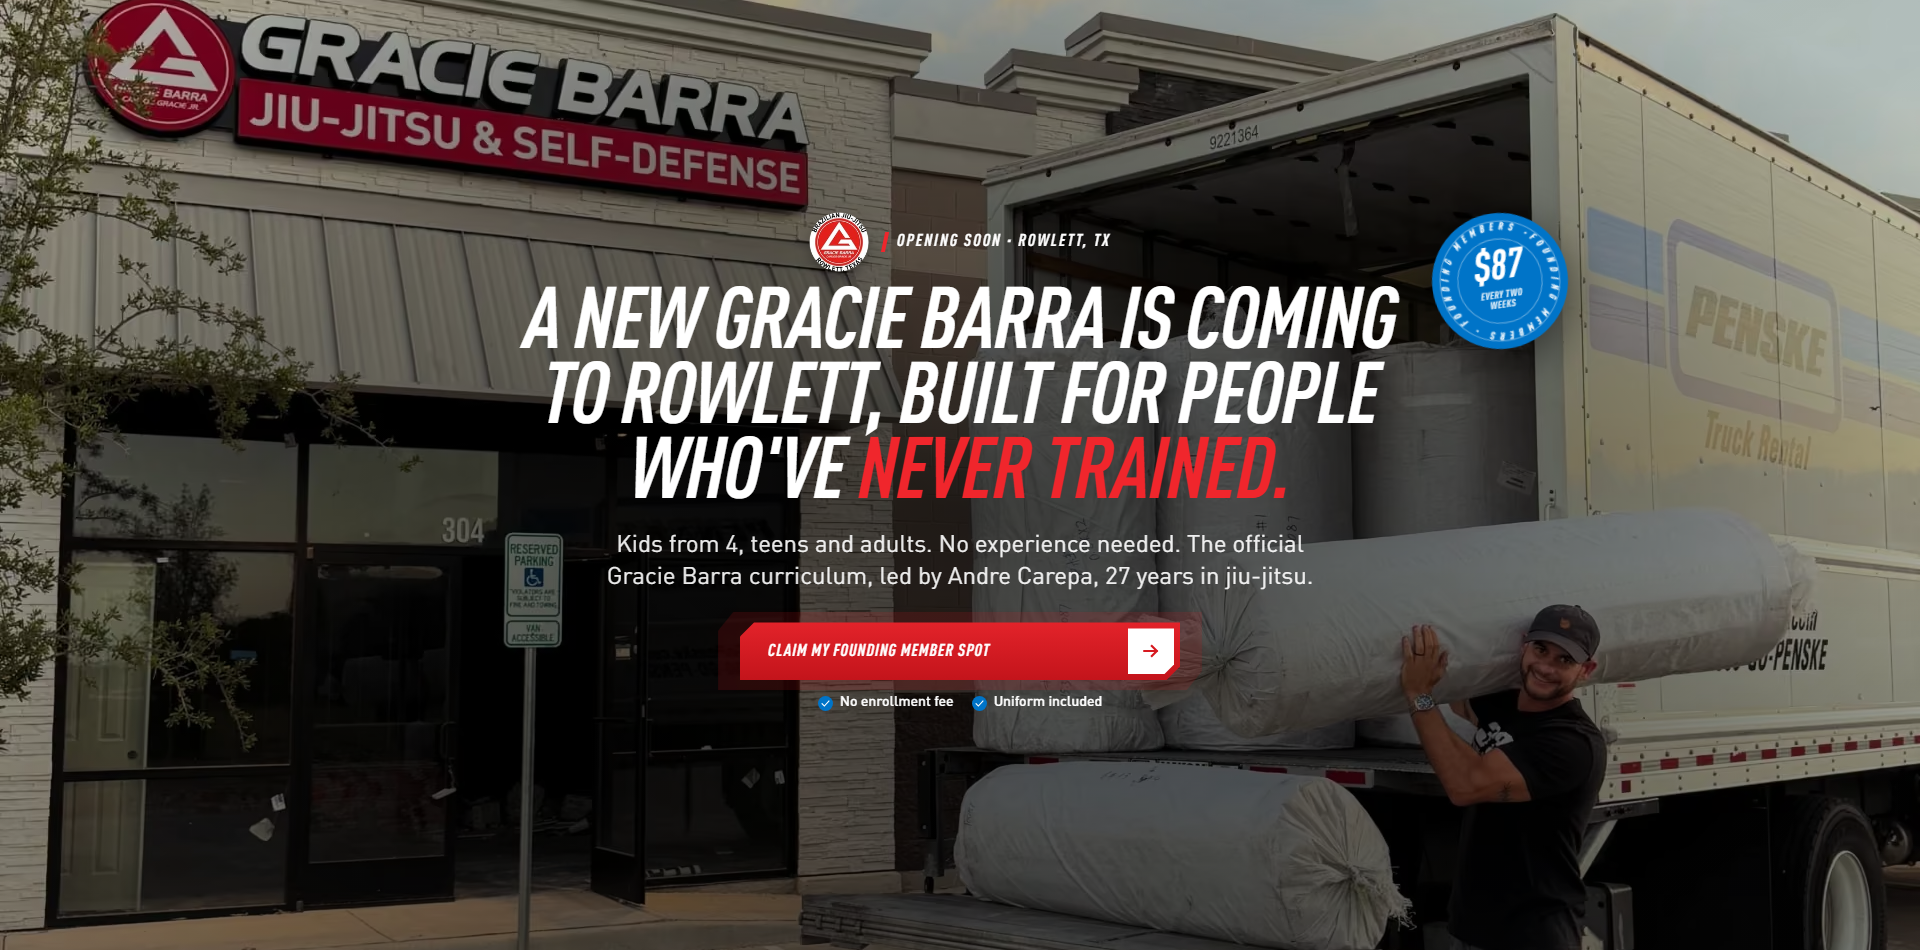
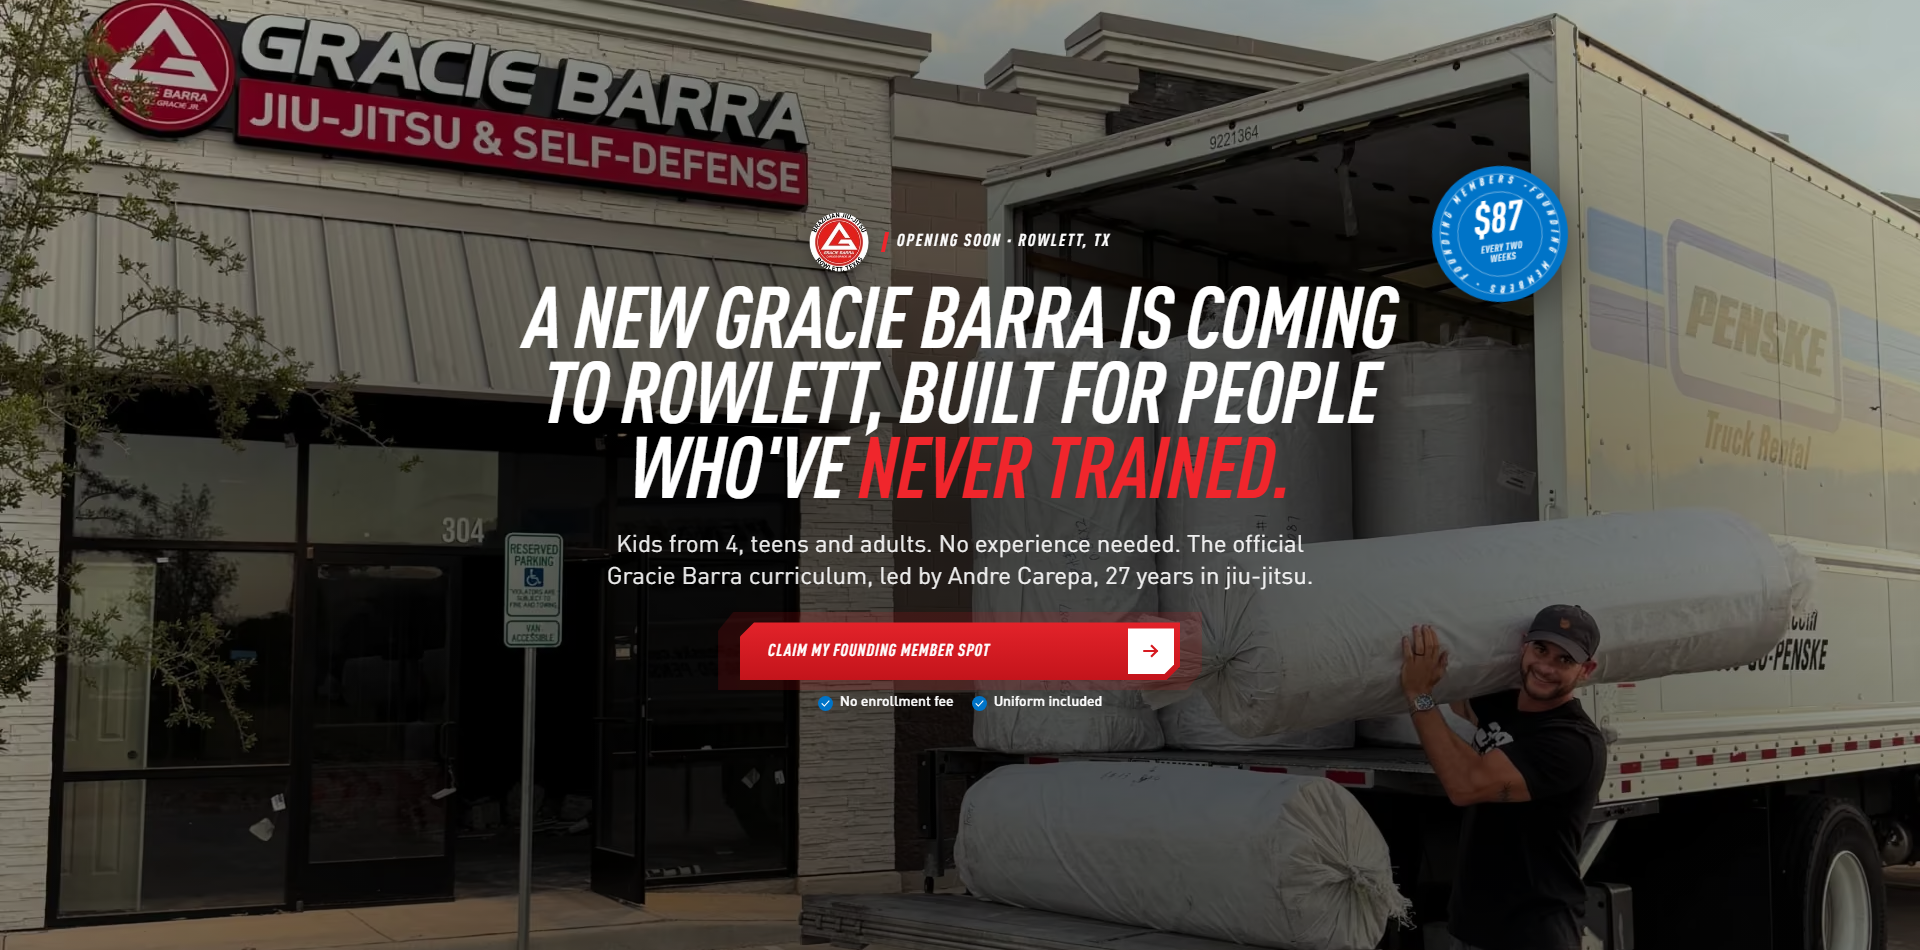
style(hero): seal sits higher above the title

Changed region(s): [[0.7188, 0.1526, 0.8438, 0.3663]]

diff --git a/src/styles/sections.css b/src/styles/sections.css
@@ -156,7 +156,7 @@
 .hero__seal {
   --size: clamp(68px, 19vw, 84px);
   position: absolute;
-  top: calc(var(--size) * -0.22);
+  top: calc(var(--size) * -0.34);
   right: calc(var(--gutter) * -0.6);
   z-index: 2;
   width: var(--size);
@@ -238,7 +238,7 @@ html.motion .hero__seal {
 @media (min-width: 1024px) {
   .hero__seal {
     --size: clamp(104px, calc(var(--u) * 8), 136px);
-    top: calc(var(--size) * -0.55);
+    top: calc(var(--size) * -0.9);
     right: calc(var(--size) * -0.6);
   }
 }
